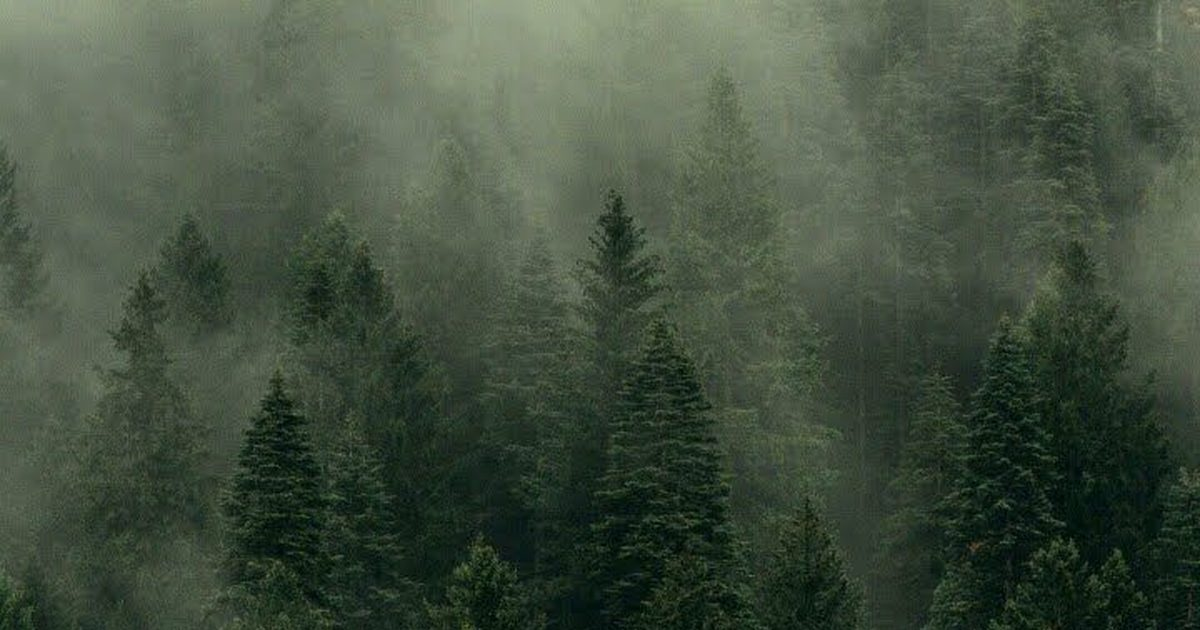
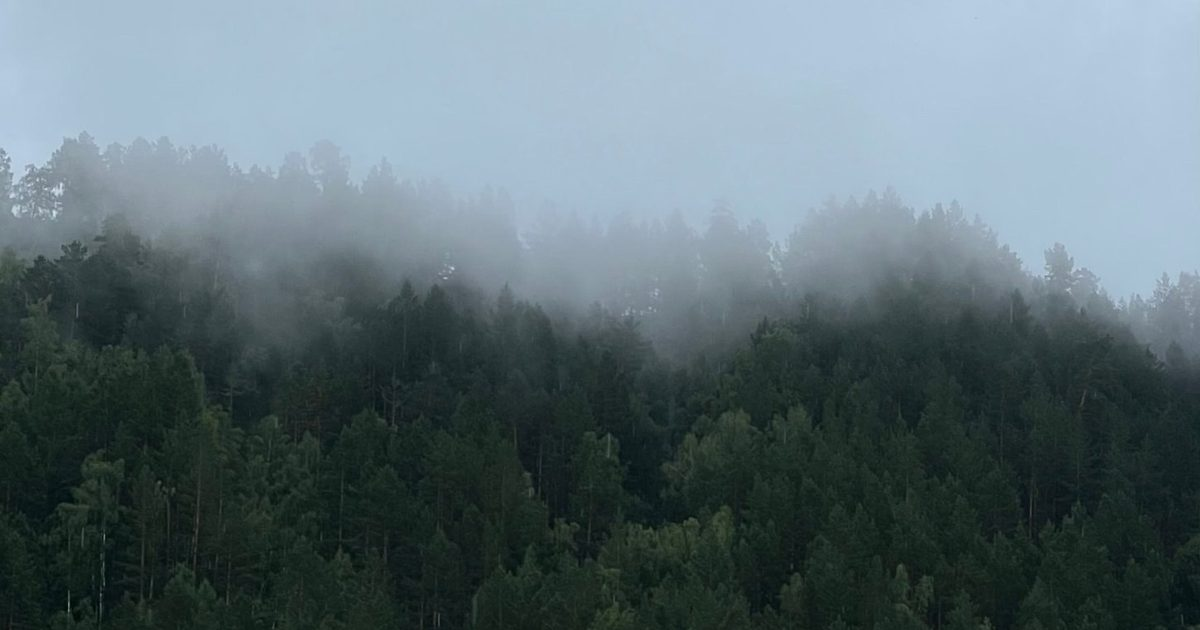
Нове фото лісу на першому екрані
Claude-Session: https://claude.ai/code/session_014bLBxmQWGrhqMi4VK5tXaG

diff --git a/index.html b/index.html
@@ -40,8 +40,8 @@ details summary::-webkit-details-marker{display:none}
 h1,h2{font-family:Geologica,sans-serif;font-weight:500;letter-spacing:-0.03em;line-height:1.02}
 .mono{font-family:'JetBrains Mono',ui-monospace,monospace}
 .it{font-family:'Cormorant Garamond',Georgia,serif;font-style:italic;font-weight:500;letter-spacing:0}
-.bg-forest{background-color:#1A2A20;background-image:linear-gradient(180deg,rgba(10,18,13,0.2) 0%,rgba(10,18,13,0.5) 70%,rgba(10,18,13,0.7) 100%),url(img/forest.jpg);background-size:cover;background-position:center top;background-attachment:fixed}
-.bg-forest2{background-color:#1A2A20;background-image:linear-gradient(180deg,rgba(10,18,13,0.55),rgba(10,18,13,0.45)),url(img/forest.jpg);background-size:cover;background-position:center bottom;background-attachment:fixed}
+.bg-forest{background-color:#1A2A20;background-image:linear-gradient(180deg,rgba(10,18,13,0.2) 0%,rgba(10,18,13,0.5) 70%,rgba(10,18,13,0.7) 100%),url(img/hero.jpg);background-size:cover;background-position:center 60%;background-attachment:fixed}
+.bg-forest2{background-color:#1A2A20;background-image:linear-gradient(180deg,rgba(10,18,13,0.55),rgba(10,18,13,0.45)),url(img/hero.jpg);background-size:cover;background-position:center bottom;background-attachment:fixed}
 .bg-view{background-color:#2A2A1E;background-image:linear-gradient(180deg,rgba(10,18,13,0.5),rgba(10,18,13,0.3) 40%,rgba(10,18,13,0.55)),url(img/view.jpg);background-size:cover;background-position:center;background-attachment:fixed}
 .door{background-image:url(img/door.jpg);background-size:cover;background-position:center 30%}
 .panel{background:linear-gradient(160deg,rgba(255,255,255,0.24),rgba(255,255,255,0.12));backdrop-filter:blur(30px) saturate(160%) brightness(1.05);-webkit-backdrop-filter:blur(30px) saturate(160%) brightness(1.05);border:1px solid rgba(255,255,255,0.5);box-shadow:inset 0 1px 0 rgba(255,255,255,0.6),0 30px 80px rgba(0,0,0,0.25);border-radius:40px;text-shadow:0 1px 14px rgba(0,0,0,0.28)}
@@ -71,7 +71,7 @@ h1,h2{font-family:Geologica,sans-serif;font-weight:500;letter-spacing:-0.03em;li
 .bar{transform-origin:0 50%;animation:fill 2.4s cubic-bezier(.2,.7,.2,1) .6s both}
 @keyframes appear{from{opacity:0;transform:translateY(8px)}to{opacity:1;transform:none}}
 .t{animation:appear .6s ease both}
-@keyframes kb{from{background-position:center 0%}to{background-position:center 18%}}
+@keyframes kb{from{background-position:center 52%}to{background-position:center 68%}}
 .bg-forest{animation:kb 40s ease-in-out infinite alternate}
 @keyframes pxs{from{transform:translateY(-70px)}to{transform:translateY(70px)}}
 @keyframes pxf{from{transform:translateY(60px)}to{transform:translateY(-60px)}}
